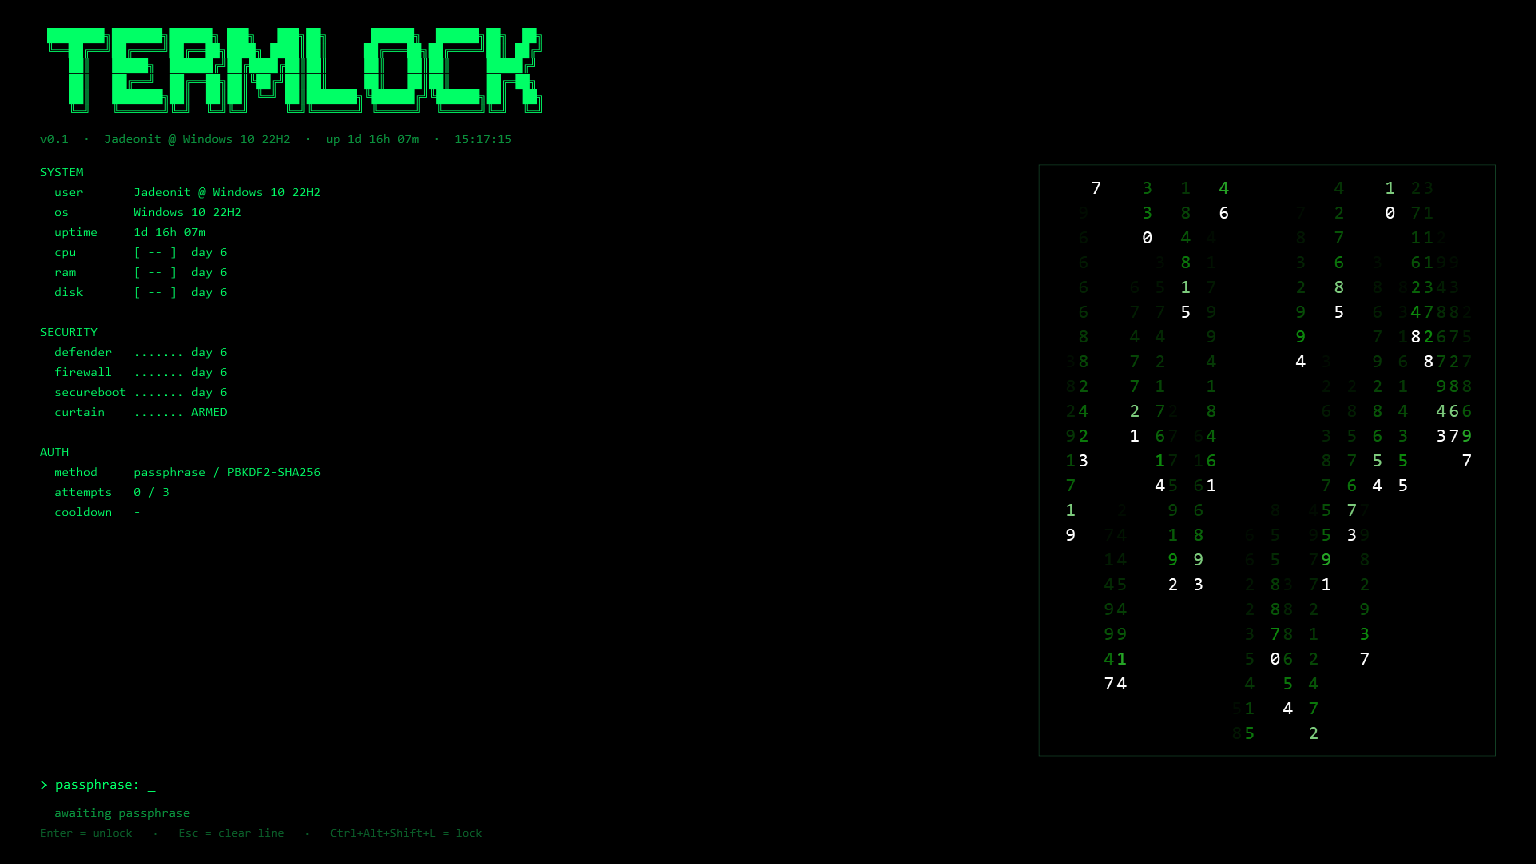
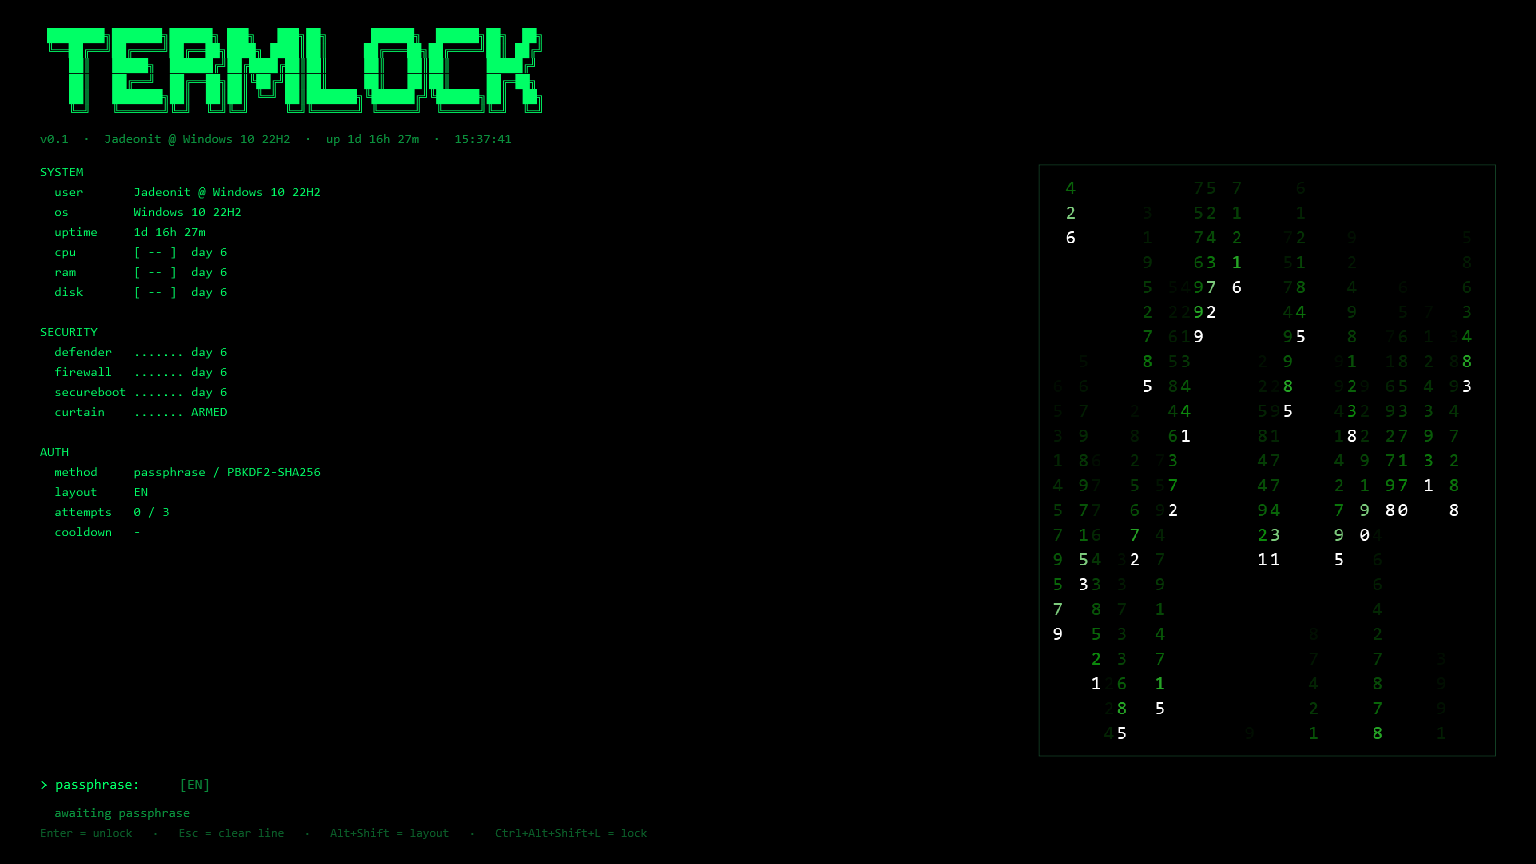
feat(ui): show keyboard layout and CAPS/CYR warnings
The passphrase prompt now shows [EN]/[RU], turns amber for Caps Lock or Cyrillic input, and the auth block lists the current layout.

diff --git a/src/TermLock/UI/MainWindow.xaml b/src/TermLock/UI/MainWindow.xaml
@@ -77,6 +77,10 @@
             <TextBlock x:Name="CursorText"
                        Text="_"
                        Foreground="{StaticResource TermGreen}" />
+            <TextBlock x:Name="LayoutText"
+                       Margin="24,0,0,0"
+                       Text="[--]"
+                       Foreground="{StaticResource TermDim}" />
 
             <!-- Invisible focus sink: it owns real keyboard input, while the
                  visible line above only renders bullets. -->
@@ -100,6 +104,6 @@
                    Margin="0,6,0,0"
                    FontSize="12"
                    Foreground="#0A5C28"
-                   Text="Enter = unlock   ·   Esc = clear line   ·   Ctrl+Alt+Shift+L = lock" />
+                   Text="Enter = unlock   ·   Esc = clear line   ·   Alt+Shift = layout   ·   Ctrl+Alt+Shift+L = lock" />
     </Grid>
 </Window>

diff --git a/src/TermLock/UI/MainWindow.xaml.cs b/src/TermLock/UI/MainWindow.xaml.cs
@@ -26,6 +26,13 @@ public partial class MainWindow : Window
     private DateTime _cooldownUntil = DateTime.MinValue;
     private bool _cursorVisible = true;
     private bool _allowClose;
+    private string _layoutCode = "EN";
+
+    private static readonly System.Windows.Media.Brush DimLayoutBrush =
+        new SolidColorBrush(System.Windows.Media.Color.FromRgb(0x0A, 0x8F, 0x3C));
+
+    private static readonly System.Windows.Media.Brush WarnLayoutBrush =
+        new SolidColorBrush(System.Windows.Media.Color.FromRgb(0xFF, 0xB0, 0x00));
 
     /// <summary>Raised after a correct passphrase, on the UI thread.</summary>
     public event EventHandler? Unlocked;
@@ -55,9 +62,13 @@ public partial class MainWindow : Window
 
         HiddenInput.PasswordChanged += (_, _) => UpdatePrompt();
         PreviewKeyDown += OnPreviewKeyDown;
+        PreviewKeyUp += OnPreviewKeyUp;
+        InputLanguageManager.Current.InputLanguageChanged += OnInputLanguageChanged;
+        Activated += (_, _) => UpdateLayoutIndicator();
 
         BuildBanner();
         UpdateHeader();
+        UpdateLayoutIndicator();
         UpdatePrompt();
         UpdateStatus("awaiting passphrase");
     }
@@ -76,6 +87,7 @@ public partial class MainWindow : Window
 
         Topmost = true;
         UpdateStatus("awaiting passphrase");
+        UpdateLayoutIndicator();
 
         _clock.Start();
         _cursorBlink.Start();
@@ -178,6 +190,7 @@ SECURITY
 
 AUTH
   method     passphrase / PBKDF2-SHA256
+  layout     {_layoutCode}
   attempts   {_attempts} / {_config.MaxAttempts}
   cooldown   {cooldown}
 """;
@@ -186,7 +199,50 @@ AUTH
     private void UpdatePrompt()
     {
         InputText.Text = new string('●', HiddenInput.Password.Length);
+        UpdateLayoutIndicator();
         UpdateStats();
+    }
+
+    private void UpdateLayoutIndicator()
+    {
+        var culture = InputLanguageManager.Current.CurrentInputLanguage;
+        _layoutCode = culture?.TwoLetterISOLanguageName?.ToUpperInvariant() ?? "??";
+
+        var caps = Keyboard.IsKeyToggled(Key.CapsLock);
+        var hasCyrillic = HiddenInput.Password.Any(c => c >= '\u0400' && c <= '\u04FF');
+
+        var text = $"[{_layoutCode}]";
+        if (caps)
+        {
+            text += " CAPS";
+        }
+
+        if (hasCyrillic)
+        {
+            text += " CYR";
+        }
+
+        LayoutText.Text = text;
+        LayoutText.Foreground = caps || hasCyrillic ? WarnLayoutBrush : DimLayoutBrush;
+    }
+
+    private void OnInputLanguageChanged(object? sender, InputLanguageEventArgs e)
+    {
+        UpdateLayoutIndicator();
+    }
+
+    private void OnPreviewKeyUp(object sender, KeyEventArgs e)
+    {
+        if (e.Key == Key.CapsLock)
+        {
+            UpdateLayoutIndicator();
+        }
+    }
+
+    protected override void OnClosed(EventArgs e)
+    {
+        InputLanguageManager.Current.InputLanguageChanged -= OnInputLanguageChanged;
+        base.OnClosed(e);
     }
 
     private void UpdateStatus(string message)

diff --git a/docs/CODE.md b/docs/CODE.md
@@ -279,3 +279,17 @@ Get-Content "$env:APPDATA\TermLock\logs\termlock.log" -Tail 20
 Поэтому в шапке и в строке `user` появляется `Jadeonit @ Windows 10 22H2`.
 Если в настройке выбрать `PC` или `Laptop`, будет `Jadeonit @ PC` или
 `Jadeonit @ Laptop`.
+
+## 12. Раскладка, Caps и кириллица
+
+Рядом с промптом висит бейдж `[EN]` / `[RU]`:
+
+- `InputLanguageManager.Current.CurrentInputLanguage` даёт текущий язык ввода;
+- `CultureInfo.TwoLetterISOLanguageName` превращается в `EN` / `RU`;
+- событие `InputLanguageChanged` обновляет бейдж при `Alt+Shift`;
+- `Keyboard.IsKeyToggled(Key.CapsLock)` добавляет `CAPS`;
+- если в `PasswordBox.Password` есть символы `\u0400..\u04FF`, добавляется
+  `CYR` — значит, фраза набрана кириллицей.
+
+`CAPS` и `CYR` подсвечиваются жёлтым, но ничего не блокируют: это подсказка,
+а не запрет. Проверка фразы всё равно идёт по хэшу.

diff --git a/README.md b/README.md
@@ -24,6 +24,7 @@ laptop, useless against someone who knows what they are doing. See
 - global hotkey `Ctrl+Alt+Shift+L`
 - passphrase unlock (`PBKDF2-HMAC-SHA256`, 600 000 iterations, random salt)
 - profile name + label (`<name> @ PC`, `<name> @ Laptop`, or `<name> @ Windows 10 22H2`) shown on the curtain
+- keyboard layout badge `[EN]` / `[RU]` with `CAPS` and `CYR` warnings
 - attempt counter with a cooldown
 - tray icon: lock / set profile / open config folder / exit
 - autostart via `HKCU\...\Run` (no admin, no service, no driver)
@@ -137,6 +138,10 @@ registry will point at the SDK host instead of TermLock.
 | `Esc` | clear the input line (never unlocks) |
 | `Ctrl+U` | clear the input line |
 | `Enter` | check the passphrase |
+| `Alt+Shift` | switch the Windows input language; the prompt shows `[EN]` / `[RU]` |
+
+The prompt also shows `CAPS` when Caps Lock is on and `CYR` when the typed
+passphrase contains Cyrillic characters. Both are warnings, not blocks.
 
 While the curtain is visible it is topmost, covers every monitor, and refuses
 `Alt+F4`. It does not block `Ctrl+Alt+Del` — nothing user-mode can.
